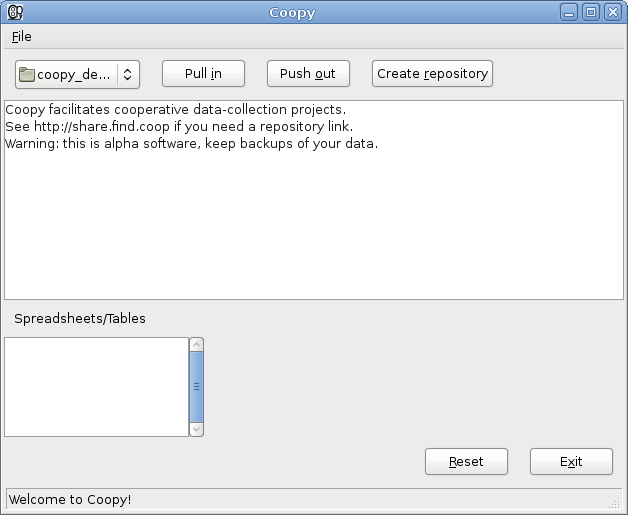
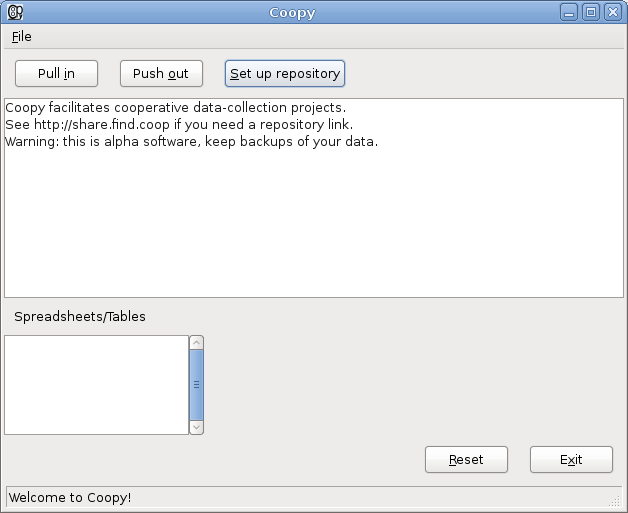
more screenshots

diff --git a/src/gui/src/coopy.cpp b/src/gui/src/coopy.cpp
@@ -43,8 +43,7 @@
 #include <coopy/Dbg.h>
 #include <coopy/Options.h>
 
-static bool __coopy_verbose = false;
-static bool verb() { return __coopy_verbose; }
+static bool verb() { coopy_is_verbose(); }
 
 // hack to remove warning
 #define static const
@@ -235,7 +234,6 @@ bool CoopyApp::OnCmdLineParsed(wxCmdLineParser& parser) {
         fossil_action = "push";
     }
     if (parser.Found(wxT("v"))) {
-        __coopy_verbose = true;
         coopy_set_verbose(true);
     }
     fossil_autoend = false;
@@ -307,6 +305,7 @@ private:
     string fossil_path;
     ostream *stream;
     string next;
+    string retry;
     bool logging;
     bool showing;
     bool writeAuthorizationFailed;
@@ -372,7 +371,7 @@ public:
         Destroy();
     }
 
-    void OnOK(wxCommandEvent& event);
+    void OnReset(wxCommandEvent& event);
 
     virtual bool OnInit();
 
@@ -459,8 +458,13 @@ public:
         if (str.Contains(wxT("login failed"))) {
             writeAuthorizationFailed = true;
         }
-        
-        if (showing||force) {
+
+        bool needed = false;
+        if (str.Contains(wxT("Error: "))) {
+            needed = true;
+        }
+
+        if (showing||force||needed) {
             bool ok = true;
             if ((str[0]>='0'&&str[0]<='9')||str[0]<32) {
                 ok = false;
@@ -509,7 +513,11 @@ public:
         if (status!=0) {
             addLog(wxT("TROUBLE in CoopyTown..."));
             addLog(wxT("* Is repository link valid?"));
+            //addLog(wxString(wxT("  => ")) + conv(source));
             fail = true;
+            if (retry!="") {
+                next = "retryable";
+            }
             if (next!="revertable"&&next!="retryable") {
                 background = false;
                 CoopyApp::fossil_result = 1;
@@ -555,8 +563,13 @@ public:
                     updatePivots(false);
                     CheckEnd();
                 }
-                repush();
+                if (n=="retryable") {
+                    string r = retry;
+                    retry = "";
+                    repush(r);
+                }
             } else {
+                retry = "";
                 updatePivots(true);
                 addLog(wxT("Online repository updated successfully."));
                 CheckEnd();
@@ -709,7 +722,9 @@ public:
 
     bool addFile();
 
-    void repush();
+    bool Sync();
+
+    void repush(const string& retry2);
 
     void OnFocusDbList() {
         list_box->SetFocus();
@@ -729,6 +744,7 @@ enum
         ID_About,
         ID_Tick,
         ID_Create,
+        ID_Reset,
     };
 };
 
@@ -809,7 +825,7 @@ BEGIN_EVENT_TABLE(CoopyFrame, wxFrame)
     EVT_MENU(ID_Commit, CoopyFrame::OnCommit)
     EVT_MENU(ID_Create, CoopyFrame::OnCreate)
     EVT_MENU(ID_About, CoopyFrame::OnAbout)
-    EVT_BUTTON(wxID_OK, CoopyFrame::OnOK)
+    EVT_BUTTON(ID_Reset, CoopyFrame::OnReset)
     EVT_BUTTON(ID_Quit, CoopyFrame::OnQuit)
     EVT_BUTTON(ID_Sync, CoopyFrame::OnSync)
     EVT_BUTTON(ID_Undo, CoopyFrame::OnUndo)
@@ -855,7 +871,7 @@ int CoopyFrame::ssfossil(int argc, char *argv[], bool sync) {
     } else if (op1 == wxT("commit")) {
         addLog(wxT(" \n \nSending changes from your computer..."));
     }
-    showing = (op1 == wxT("update")) || (op1 == wxT("commit")) || (op1 == wxT("push"));
+    showing = (op1 == wxT("update")) || (op1 == wxT("commit")) || (op1 == wxT("push")) || (op1 == wxT("pull")) || (op1 == wxT("clone"));
     for (int i=0; i<argc; i++) {
         //printf("[%s] ", conv(arr[i]).c_str());
         cmd[i] = (wxChar*)((const wxChar *)arr[i]);
@@ -988,7 +1004,7 @@ bool CoopyFrame::OnInit() {
                     lflags);
     dir_bar->Add(new wxButton( panel, ID_Commit, _T("Push &out") ),
                     lflags);
-    dir_bar->Add(new wxButton( panel, ID_Create, _T("Create &repository") ),
+    dir_bar->Add(new wxButton( panel, ID_Create, _T("&Set up repository") ),
                     lflags);
     topsizer->Add(dir_bar,wxSizerFlags(0).Align(wxALIGN_LEFT));
 
@@ -1001,7 +1017,7 @@ bool CoopyFrame::OnInit() {
     //handler.setCtrl(*log_box);
 
     topsizer->Add(log_box);
-    topsizer->Add(new wxStaticText(panel,-1,_T("Spreadsheets/&Tables"),
+    topsizer->Add(new wxStaticText(panel,-1,_T("Spreadsheets/Tables"),
                                   wxDefaultPosition,
                                   wxSize(200,-1)),lflags);
     topsizer->Add(list_box);
@@ -1012,7 +1028,7 @@ bool CoopyFrame::OnInit() {
     //create two buttons that are horizontally unstretchable, 
     // with an all-around border with a width of 10 and implicit top alignment
     button_sizer->Add(
-                      new wxButton( panel, wxID_OK, _T("&Reset") ),
+                      new wxButton( panel, ID_Reset, _T("&Reset") ),
                       wxSizerFlags(0).Align(wxALIGN_RIGHT).Border(wxALL, 10));       
     
     button_sizer->Add(
@@ -1067,6 +1083,7 @@ bool CoopyFrame::havePath() {
     }
 
     if (path=="" || askPath) {
+        source = "";
         wxDirDialog dlg(NULL, wxT("Select directory to work in"), 
                         conv(path),
                         wxDD_DEFAULT_STYLE); // | wxDD_DIR_MUST_EXIST);
@@ -1485,6 +1502,8 @@ string("http://") +
         }
     }
 
+    printf("Source is %s\n", source.c_str());
+
     return source!="";
 }
 
@@ -1531,7 +1550,7 @@ bool CoopyFrame::haveDestination() {
     return destination!="";
 }
 
-void CoopyFrame::OnOK(wxCommandEvent& ev) {
+void CoopyFrame::OnReset(wxCommandEvent& ev) {
     askPath = true;
     askSource = true;
     askDestination = true;
@@ -1539,12 +1558,13 @@ void CoopyFrame::OnOK(wxCommandEvent& ev) {
     if (dest_box) { dest_box->ChangeValue(wxT("")); }
 }
 
-void CoopyFrame::OnSync(wxCommandEvent& event) {
-    //printf("Syncing...\n");
-    next = "";
+bool CoopyFrame::Sync() {
+    printf("Syncing...\n");
+    retry = "clone";
+    next = "retryable";
     //startStream();
     if (havePath()) {
-        //printf("Should pull %s\n", path.c_str());
+        printf("Should pull %s\n", path.c_str());
         wxChar sep = wxFileName::GetPathSeparator();
         wxString target = conv(path) + sep + wxT("repository.coopy");
         if (!wxFileExists(target)) {
@@ -1555,9 +1575,9 @@ void CoopyFrame::OnSync(wxCommandEvent& event) {
         }
         string ctarget = conv(target);
         if (!wxFileExists(target)) {
-            //printf("Could not find %s\n", ctarget.c_str());
+            printf("Could not find %s\n", ctarget.c_str());
             if (haveSource()) {
-                //printf("Need to clone %s\n", ctarget.c_str());
+                printf("Need to clone %s\n", ctarget.c_str());
                 int argc = 4;
                 char *argv[] = {
                     fossil(),
@@ -1570,9 +1590,9 @@ void CoopyFrame::OnSync(wxCommandEvent& event) {
                 //}
                 next = "sync";
                 ssfossil(argc,argv);
-                return;
+                return true;
             } else {
-                return;
+                return false;
             }
         }
         if (wxFileExists(target)) {
@@ -1587,7 +1607,7 @@ void CoopyFrame::OnSync(wxCommandEvent& event) {
                     NULL };
                 next = "sync";
                 ssfossil(argc,argv);
-                return;
+                return true;
             }
             if (wxFileExists(view_target)) {
                 // make sure we have autosync
@@ -1605,7 +1625,7 @@ void CoopyFrame::OnSync(wxCommandEvent& event) {
                 int argc = 2;
                 char *argv[] = {
                     fossil(),
-                    (char*)"update",
+                    (char*)"pull",
                     NULL };
                 next = "view_sync";
                 ssfossil(argc,argv);
@@ -1614,6 +1634,12 @@ void CoopyFrame::OnSync(wxCommandEvent& event) {
     }
     //updateSettings(true);
     //endStream();
+    return false;
+}
+
+void CoopyFrame::OnSync(wxCommandEvent& event) {
+    retry = "pull";
+    Sync();
 }
 
 
@@ -1633,11 +1659,34 @@ void CoopyFrame::OnUndo(wxCommandEvent& event) {
 
 void CoopyFrame::OnCreate(wxCommandEvent& event) {
     //printf("Create!\n");
-    ::wxLaunchDefaultBrowser(wxT(SITE_NAME_CREATE));
+    //::wxLaunchDefaultBrowser(wxT(SITE_NAME_CREATE));
+    retry = "";
+    repush("");
 }
 
 
-void CoopyFrame::repush() {
+void CoopyFrame::repush(const string& retry2) {
+    bool has_dir = (dir_box_path!="" && !askPath);
+
+    wxString choices[] = { 
+        wxT("Connect to a repository"), 
+        wxT("Set username and password"), 
+        wxT("Create new repository"), 
+        wxT("Change directory"),
+    };
+
+    int CHOICE_CONNECT=0;
+    int CHOICE_USERNAME=1;
+    int CHOICE_NEW=2;
+    int CHOICE_DIR=3;
+
+    wxSingleChoiceDialog dlg(this, (retry2!="")?wxT("Access denied.  What would you like to do?"):wxT("What would you like to do?"),
+                             (retry2!="")?wxT("Access denied"):wxT("Set up repository"), has_dir?4:3, choices);
+    
+    if (dlg.ShowModal() != wxID_OK) {
+        return;
+    }
+ 
     {
         int argc = 2;
         char *argv[] = {
@@ -1646,21 +1695,45 @@ void CoopyFrame::repush() {
             NULL };
         ssfossil(argc,argv,true);
     }
+
+    int choice = dlg.GetSelection();
+
     if (source=="") {
         source = conv(autoSyncTip);
     }
     wxURL url = conv(source);
     printf("source is %s\n", source.c_str());
-    wxTextEntryDialog dlg1(NULL, wxT("Username needed to access the repository"), wxT("Enter username"), url.GetUser());
-    wxPasswordEntryDialog dlg2(NULL, wxT("Password needed to access the repository"), wxT("Enter password"), url.GetPassword());
-    wxTextEntryDialog dlg3(NULL, wxT("Repository link"), wxT("Enter repository"), conv(source));
-    wxTextEntryDialog dlg4(NULL, wxT("Clone to new repository?\nIf cloning, copy this project code:"), wxT("Clone repository?"), projectCodeTip);
-    if (dlg1.ShowModal()!=wxID_OK) return;
-    if (dlg2.ShowModal()!=wxID_OK) return;
-    if (dlg4.ShowModal()==wxID_OK) {
+
+    if (choice==CHOICE_DIR) {
+        askPath = true;
+        havePath();
+        return;
+    }
+
+    if (choice==CHOICE_NEW) {
+        if (!projectCodeTip.IsEmpty()) {
+            wxTextEntryDialog dlg4(NULL, wxT("You'll need this project code:"), wxT("Project code"), projectCodeTip);
+            if (dlg4.ShowModal()!=wxID_OK) return;
+        }
+        wxTextEntryDialog dlg3(NULL, wxT("Repository link"), wxT("Enter repository"), conv(source));
         if (dlg3.ShowModal()!=wxID_OK) return;
         url = dlg3.GetValue();
+
     }
+    if (choice==CHOICE_CONNECT) {
+        /*
+        if (has_dir) {
+        } else {
+        */
+        Sync();
+        return;
+    }
+
+    wxString user = url.GetUser();
+    wxTextEntryDialog dlg1(NULL, wxT("Username needed to access the repository"), wxT("Enter username"), user);
+    if (dlg1.ShowModal()!=wxID_OK) return;
+    wxPasswordEntryDialog dlg2(NULL, wxT("Password needed to access the repository"), wxT("Enter password"), url.GetPassword());
+    if (dlg2.ShowModal()!=wxID_OK) return;
 
     wxString username = dlg1.GetValue();
     wxString pword = dlg2.GetValue();
@@ -1693,14 +1766,21 @@ void CoopyFrame::repush() {
         printf("Source set to %s\n", source.c_str());
     */
 
-    int argc = 3;
-    char *argv[] = {
-        fossil(),
-        (char*)"push",
-        (char*)source.c_str(),
-        NULL };
-    next = "retryable";
-    ssfossil(argc,argv);
+    {
+        next = "retryable";
+        retry = retry2;
+        if (retry2!="clone") {
+            int argc = 3;
+            char *argv[] = {
+                fossil(),
+                (char*)retry2.c_str(),
+                (char*)source.c_str(),
+                NULL };
+            ssfossil(argc,argv);
+        } else {
+            Sync();
+        }
+    }
 }
 
 void CoopyFrame::OnPush(wxCommandEvent& event) {
@@ -1714,6 +1794,7 @@ void CoopyFrame::OnPush(wxCommandEvent& event) {
 }
 
 void CoopyFrame::OnCommit(wxCommandEvent& event) {
+    retry = "push";
     writeAuthorizationFailed = false;
     //printf("Should commit\n");
     //startStream();
@@ -1822,7 +1903,7 @@ CoopyFrame::CoopyFrame(const wxString& title, const wxPoint& pos, const wxSize& 
 
     menuFile->Append( ID_Sync, _T("Pull &in...") );
     menuFile->Append( ID_Commit, _T("Push &out...") );
-    menuFile->Append( ID_Create, _T("Create &repository...") );
+    menuFile->Append( ID_Create, _T("Set up &repository...") );
     menuFile->Append( ID_About, _T("&About...") );
     menuFile->AppendSeparator();
     menuFile->Append( ID_Quit, _T("E&xit") );
@@ -1853,7 +1934,7 @@ Now go back to work."),
 void CoopyApp::OnKey(wxKeyEvent& e) {
     if(e.GetModifiers() == wxMOD_ALT) {
         switch(e.GetKeyCode()) {
-        case 'S':
+        case 'T':
             ((CoopyFrame *)store_frame)->OnFocusDbList();
             break;
         default:
